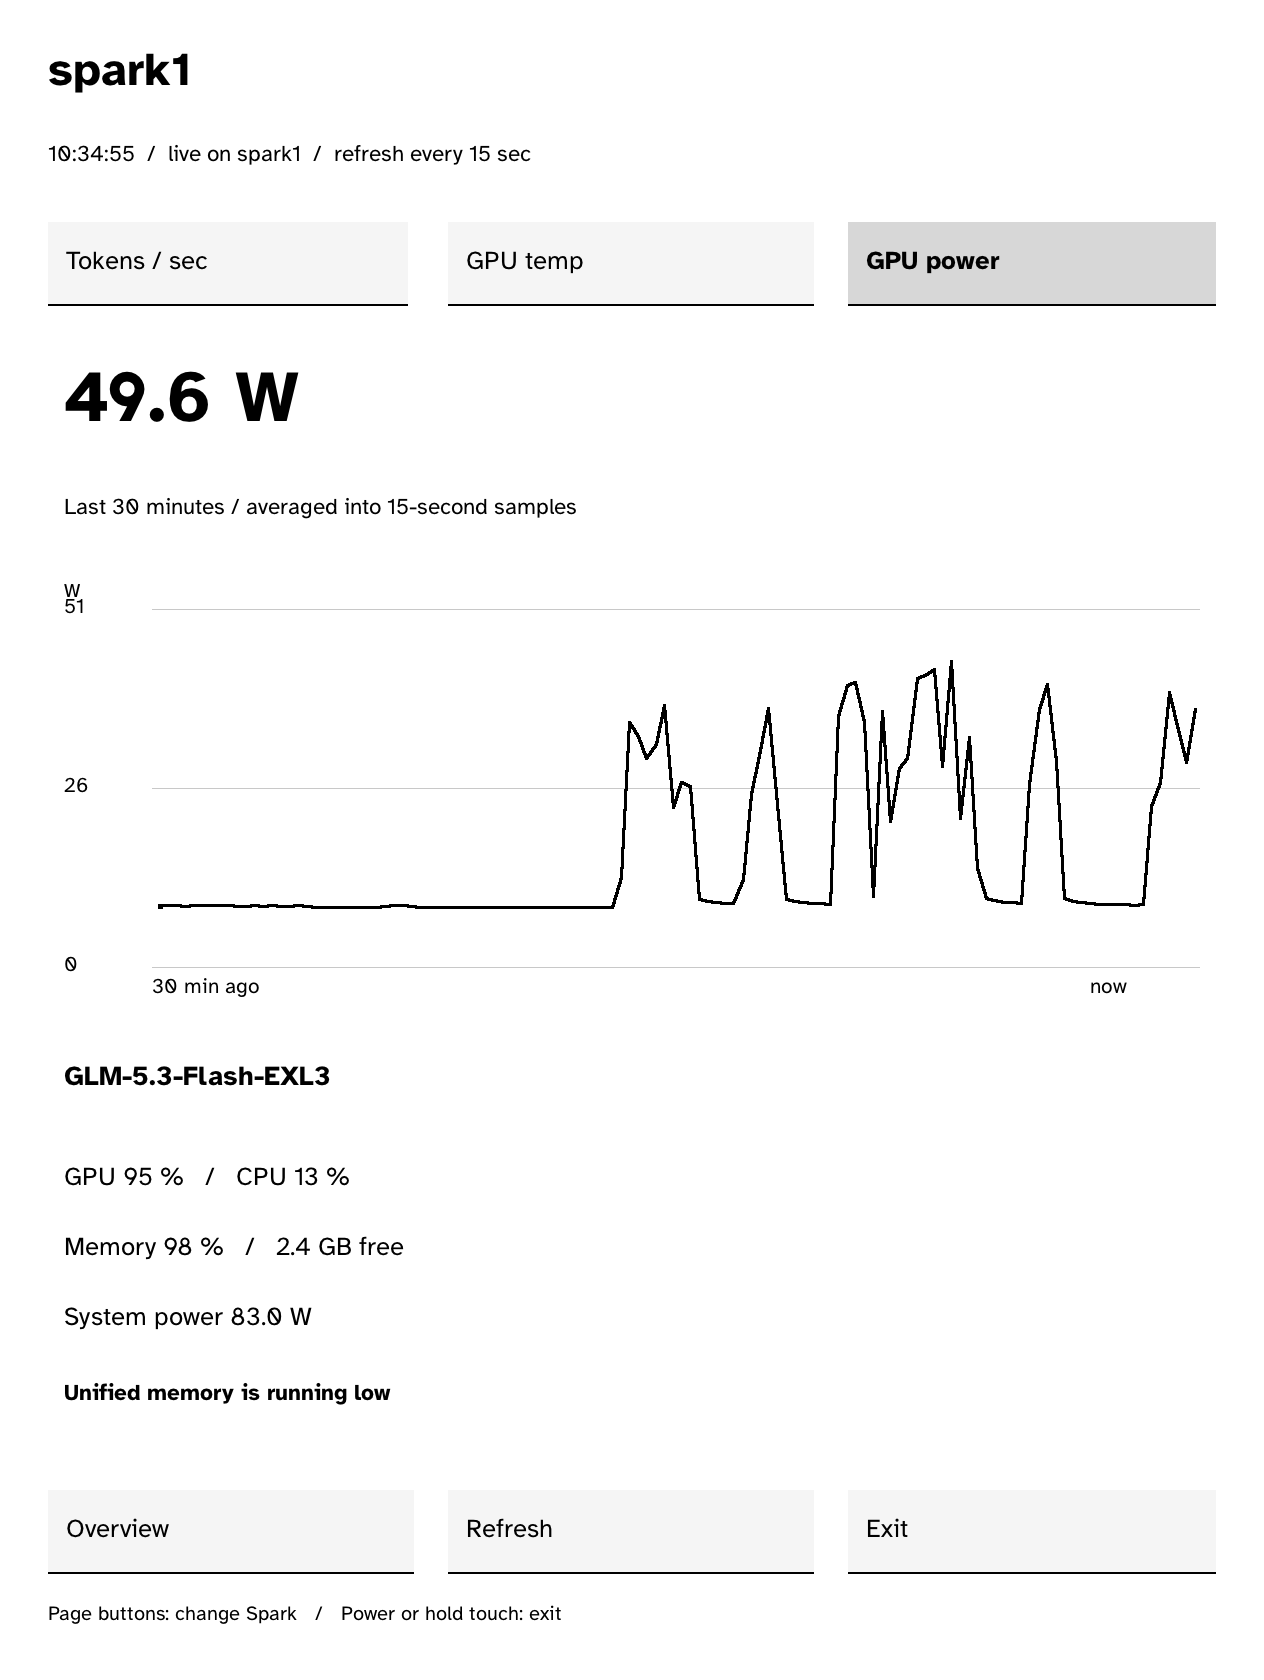
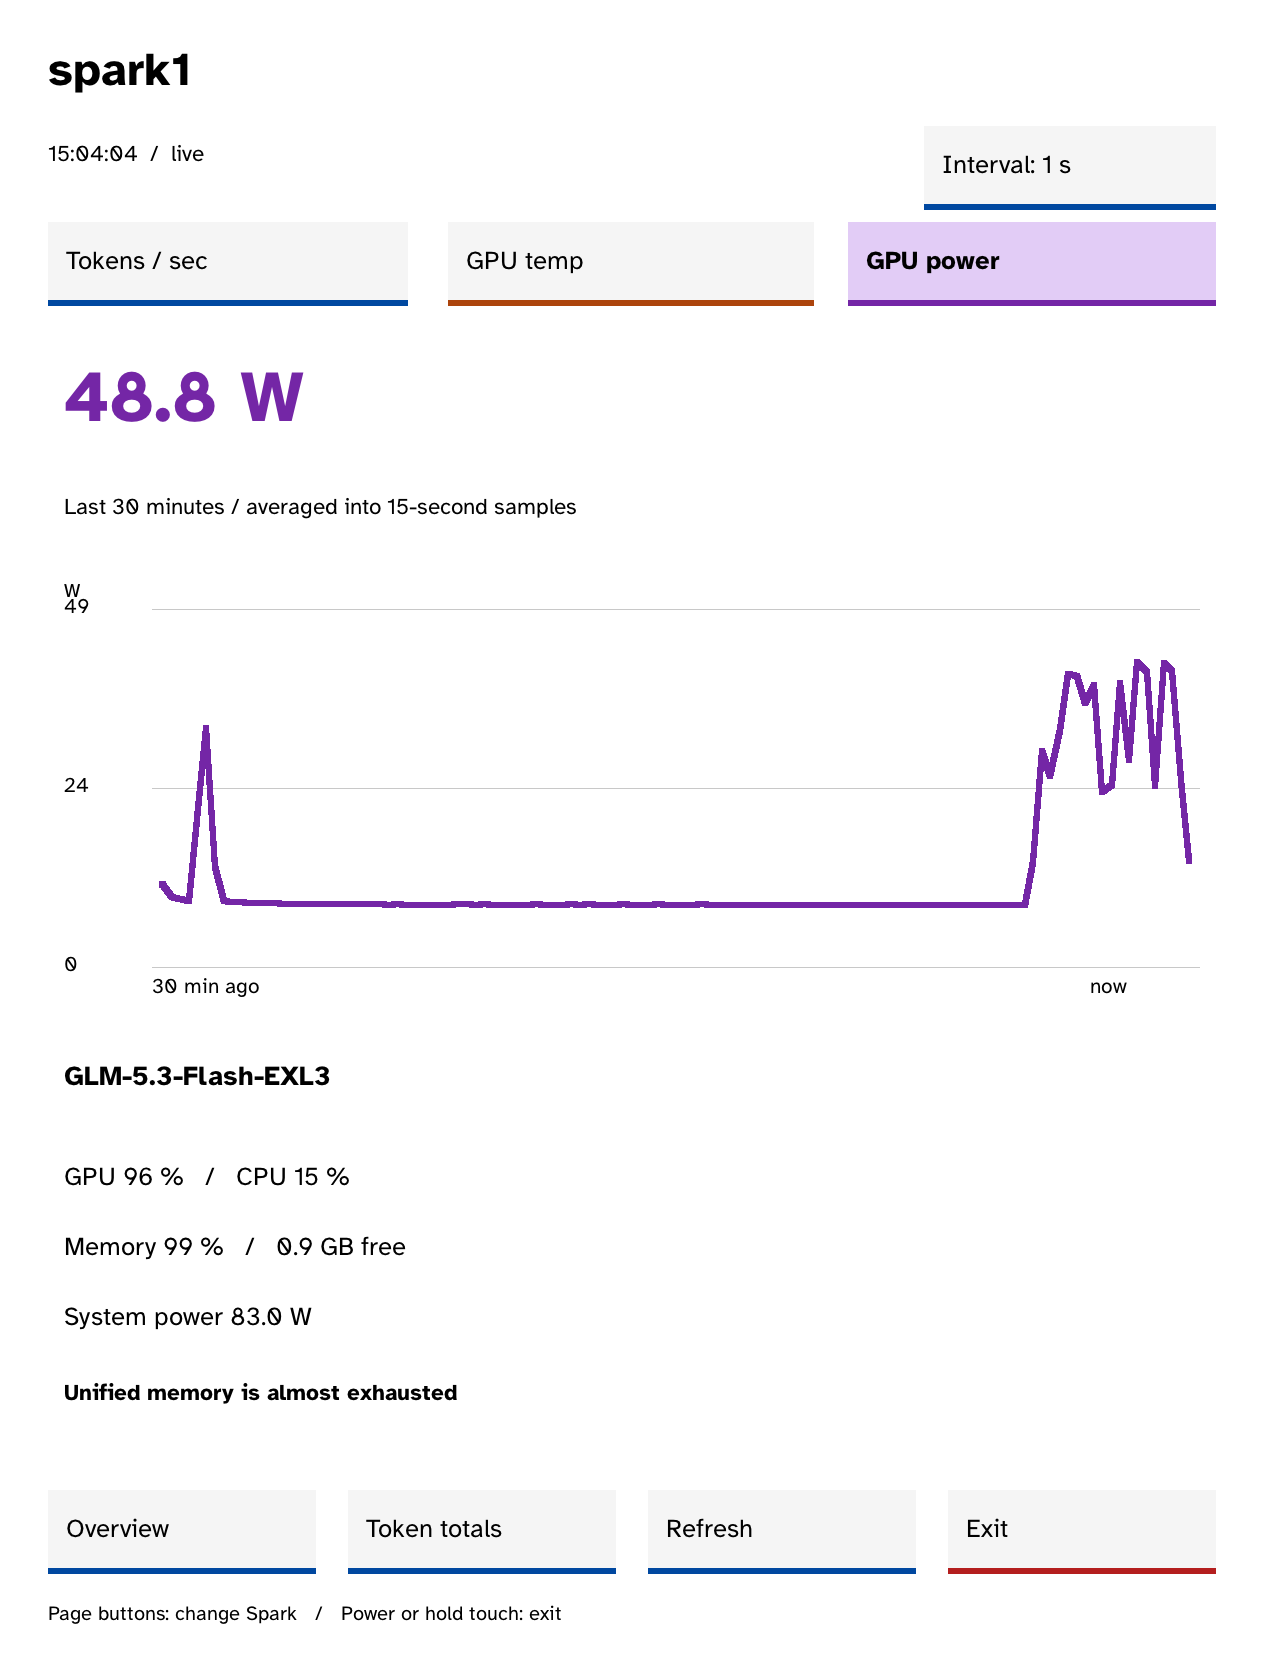
Add color accents and Kaleido color refresh modes

diff --git a/src/dashboard.c b/src/dashboard.c
@@ -92,9 +92,18 @@ static const int intervals[] = {1, 2, 5, 10, 15, 30};
 static int refresh_index = 2;
 static bool redraw, quit, request_refresh, rates_loaded;
 static FBInkConfig paint = {.no_refresh=true, .is_quiet=true, .is_bgless=true};
+typedef struct { uint8_t r, g, b; } Color;
+static const Color BLUE={0,72,160}, ORANGE={172,68,12}, PURPLE={116,38,166};
+static const Color GREEN={20,116,60}, RED={180,30,30};
+static const Color BLUE_TINT={198,218,248}, ORANGE_TINT={250,216,184}, PURPLE_TINT={226,204,246};
+static Color metric_color(int which) { return which==0?BLUE:which==1?ORANGE:PURPLE; }
 static void box(int fd, int x, int y, int w, int h, unsigned char gray) {
     FBInkRect r = {.left=(unsigned short)x, .top=(unsigned short)y, .width=(unsigned short)w, .height=(unsigned short)h};
     if (fbink_fill_rect_gray(fd, &paint, &r, false, gray) < 0) quit = true;
+}
+static void color_box(int fd, int x, int y, int w, int h, Color color) {
+    FBInkRect r={.left=(unsigned short)x,.top=(unsigned short)y,.width=(unsigned short)w,.height=(unsigned short)h};
+    if (fbink_fill_rect_rgba(fd,&paint,&r,false,color.r,color.g,color.b,255)<0) quit=true;
 }
 static void label(int fd, int x, int y, int width, int height, int size, bool bold, const char *text) {
     if (!*text) return;
@@ -103,19 +112,29 @@ static void label(int fd, int x, int y, int width, int height, int size, bool bo
         .size_px=(unsigned short)size};
     if (fbink_print_ot(fd, text, &ot, &paint, NULL) < 0) quit = true;
 }
-static void button(int fd, int x, int y, int width, const char *name, bool selected) {
-    box(fd, x, y, width, 84, selected ? 215 : 245);
-    box(fd, x, y+82, width, 2, 0);
+static void color_label(int fd,int x,int y,int width,int height,int size,bool bold,const char *text,Color color) {
+    /* Do not quantize: FBInk's grayscale palette would discard RGB here. */
+    if (fbink_set_fg_pen_rgba(color.r,color.g,color.b,255,false,false)<0) quit=true;
+    label(fd,x,y,width,height,size,bold,text);
+    if (fbink_set_fg_pen_gray(0,false,false)<0) quit=true;
+}
+static void color_button(int fd,int x,int y,int width,const char *name,bool selected,Color accent,Color tint) {
+    if (selected) color_box(fd,x,y,width,84,tint);
+    else box(fd,x,y,width,84,245);
+    color_box(fd,x,y+78,width,6,accent);
     label(fd, x+18, y+22, width-36, 54, 32, selected, name);
+}
+static void button(int fd,int x,int y,int width,const char *name,bool selected) {
+    color_button(fd,x,y,width,name,selected,BLUE,BLUE_TINT);
 }
 static void fmt(char *buffer, size_t size, double v, const char *unit, int decimals) {
     if (!isfinite(v)) snprintf(buffer, size, "-- %s", unit);
     else snprintf(buffer, size, "%.*f %s", decimals, v, unit);
 }
-static void line(int fd, int x0, int y0, int x1, int y1) {
+static void line(int fd, int x0, int y0, int x1, int y1, Color color) {
     int dx=abs(x1-x0), sx=x0<x1?1:-1, dy=-abs(y1-y0), sy=y0<y1?1:-1, err=dx+dy;
     for (;;) {
-        box(fd, x0, y0, 3, 3, 0);
+        color_box(fd,x0,y0,6,6,color);
         if (x0==x1 && y0==y1) break;
         int e=2*err;
         if (e>=dy) {err+=dy; x0+=sx;}
@@ -230,8 +249,8 @@ static void graph(int fd, const Spark *s, int which, int x, int y, int w, int h,
         int yy=top+height-(int)((values[i]-low)*height/(high-low));
         if (yy<top) yy=top;
         if (yy>top+height) yy=top+height;
-        if (connected && times[i]-prevt<=45000) line(fd,prevx,prevy,xx,yy);
-        else box(fd,xx,yy,5,5,0);
+        if (connected && times[i]-prevt<=45000) line(fd,prevx,prevy,xx,yy,metric_color(which));
+        else color_box(fd,xx,yy,7,7,metric_color(which));
         prevx=xx; prevy=yy; prevt=times[i]; connected=true;
     }
     label(fd,left,y+h-32,width/2,35,mini?22:26,false,"30 min ago");
@@ -242,27 +261,29 @@ static void footer(int fd, bool overview) {
     button(fd,48,1490,268,overview?"History":"Overview",false);
     button(fd,348,1490,268,"Token totals",page==TOTALS_PAGE);
     button(fd,648,1490,268,job.pid?"Updating...":"Refresh",false);
-    button(fd,948,1490,268,"Exit",false);
+    color_button(fd,948,1490,268,"Exit",false,RED,BLUE_TINT);
     label(fd,48,1600,1168,50,25,false,"Page buttons: change Spark   /   Power or hold touch: exit");
 }
 static void card(int fd,const Spark *s,int index) {
     int y=250+index*570;
-    box(fd,48,y,1168,2,0);
+    color_box(fd,48,y,1168,8,index?PURPLE:BLUE);
     label(fd,64,y+20,700,70,48,true,s->name);
     const char *status=!s->fetched?"STALE":s->online?"ONLINE":"OFFLINE";
-    label(fd,995,y+32,210,46,28,true,status);
+    Color state=!s->fetched?ORANGE:s->online?GREEN:RED;
+    color_box(fd,959,y+42,20,20,state);
+    color_label(fd,995,y+32,210,46,28,true,status,state);
     char model[168];
     if (s->worker) snprintf(model,sizeof(model),"Worker for %s  /  %s",s->head,s->model);
     else snprintf(model,sizeof(model),"%s",s->model[0]?s->model:"No model endpoint available");
     label(fd,64,y+95,1130,66,28,false,model);
-    if (s->health[0]) label(fd,64,y+153,1130,40,23,true,s->health);
+    if (s->health[0]) color_label(fd,64,y+153,1130,40,23,true,s->health,ORANGE);
     char value[64];
     if (s->worker) snprintf(value,sizeof(value),"Worker"); else fmt(value,sizeof(value),s->rate,"",1);
-    label(fd,64,y+182,430,108,78,true,value);
+    color_label(fd,64,y+182,430,108,78,true,value,BLUE);
     label(fd,64,y+293,430,44,27,false,s->worker?"Uses head-node throughput":"tokens / sec");
-    fmt(value,sizeof(value),s->temp,"C",0); label(fd,520,y+195,320,85,58,true,value);
+    fmt(value,sizeof(value),s->temp,"C",0); color_label(fd,520,y+195,320,85,58,true,value,ORANGE);
     label(fd,520,y+293,300,44,27,false,"GPU temperature");
-    fmt(value,sizeof(value),s->power,"W",1); label(fd,895,y+195,305,85,58,true,value);
+    fmt(value,sizeof(value),s->power,"W",1); color_label(fd,895,y+195,305,85,58,true,value,PURPLE);
     label(fd,895,y+293,300,44,27,false,"GPU power");
     label(fd,64,y+360,430,40,25,false,"GPU power / last 30 minutes");
     graph(fd,s,2,64,y+394,1116,148,true);
@@ -287,10 +308,11 @@ static void draw(int fd, bool flash) {
             double counts[]={t->today,t->hours24,t->days7};
             for (int i=0;i<3;i++) {
                 int y=270+i*325; char count[64];
-                box(fd,48,y,1168,2,0);
+                Color accent=i==0?BLUE:i==1?GREEN:PURPLE;
+                color_box(fd,48,y,1168,8,accent);
                 label(fd,64,y+28,1130,60,36,true,names[i]);
                 snprintf(count,sizeof(count),i==1?"~ %.0f":"%.0f",counts[i]);
-                label(fd,64,y+110,1130,130,90,true,count);
+                color_label(fd,64,y+110,1130,130,90,true,count,accent);
                 label(fd,64,y+246,1130,45,28,false,"generated output tokens");
             }
             label(fd,64,1270,1130,90,28,false,"All recorded models / server counters continue while the Kobo app is closed. Ledger samples every 15 seconds.");
@@ -308,14 +330,14 @@ static void draw(int fd, bool flash) {
     } else {
         if (page>fleet.count) page=fleet.count;
         Spark *s=&fleet.units[page-1];
-        button(fd,48,222,360,"Tokens / sec",metric==0);
-        button(fd,448,222,366,"GPU temp",metric==1);
-        button(fd,848,222,368,"GPU power",metric==2);
+        color_button(fd,48,222,360,"Tokens / sec",metric==0,BLUE,BLUE_TINT);
+        color_button(fd,448,222,366,"GPU temp",metric==1,ORANGE,ORANGE_TINT);
+        color_button(fd,848,222,368,"GPU power",metric==2,PURPLE,PURPLE_TINT);
         char v[96], note[168];
         double current=metric==0?s->rate:metric==1?s->temp:s->power;
         fmt(v,sizeof(v),current,metric==0?"tok/s":metric==1?"C":"W",metric==1?0:1);
         if (metric==0 && s->worker) snprintf(v,sizeof(v),"Head: %s",s->head);
-        label(fd,64,352,1136,134,90,true,v);
+        color_label(fd,64,352,1136,134,90,true,v,metric_color(metric));
         if (!s->fetched) {
             long age=(long)((dash_wall()-s->updated)/1000);
             snprintf(note,sizeof(note),"Last reading %ld sec ago / refresh to retry",age<0?0:age);
@@ -336,6 +358,9 @@ static void draw(int fd, bool flash) {
     }
     footer(fd,page==0);
     FBInkConfig refresh={.is_quiet=true,.is_flashing=flash};
+    /* The default AUTO/GC16 waveforms render grayscale even with RGB pixels.
+     * Request Kaleido color processing for both clearing and regular updates. */
+    if (view.has_color_panel) refresh.wfm_mode=flash?WFM_GCC16:WFM_GLRC16;
     if (fbink_refresh(fd,0,0,0,0,&refresh)<0 || fbink_wait_for_complete(fd,LAST_MARKER)<0) quit=true;
 }
 static void touch(Input *input,bool active) {
@@ -400,7 +425,7 @@ int main(int argc,char **argv) {
     char base[256]; bool probe=false; int run_seconds=0;
     const char *screenshot=NULL,*config=DASH_DIR "/dashboard.conf";
     for (int i=1;i<argc;i++) {
-        if (!strcmp(argv[i],"--version")) {puts("Kobo Spark 1.1"); return 0;}
+        if (!strcmp(argv[i],"--version")) {puts("Kobo Spark 1.2"); return 0;}
         else if (!strcmp(argv[i],"--probe-dashboard")) probe=true;
         else if (!strcmp(argv[i],"--config") && i+1<argc) config=argv[++i];
         else if (!strcmp(argv[i],"--capture") && i+1<argc) screenshot=argv[++i];

diff --git a/README.md b/README.md
@@ -19,6 +19,8 @@ continues running on your server.
 ## What it shows
 
 - Live generation tokens/sec, GPU temperature, and GPU power.
+- Color accents: blue for throughput, orange for temperature, purple for power,
+  and green/red status indicators, with matching history charts and metric tabs.
 - A two-machine overview and individual pages for up to four machines.
 - Selectable temperature, power, and token-rate charts over a 30-minute window.
 - Model names, GPU/CPU usage, unified memory, system power, and health alerts.
@@ -179,6 +181,8 @@ The reader handoff follows the firmware's boot sequence and was checked against
 The updated build was also checked on the device with saved 1-second refresh,
 server token totals, two successful returns to the home screen, and launch from
 the Wi-Fi reconnecting NickelMenu entry.
+Color rendering uses the Libra Colour's color waveforms for both regular
+updates and full refreshes. Text labels remain black for readability.
 
 ## Credits and licence
 
